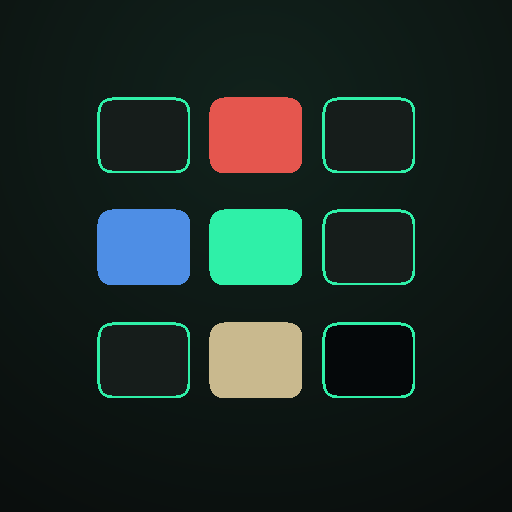
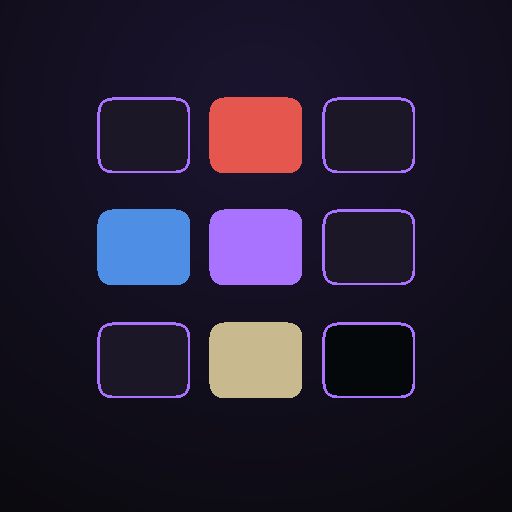
UI Update

diff --git a/css/styles.css b/css/styles.css
@@ -1,22 +1,22 @@
 /* ===========================================================================
    styles.css — minimalist, dark, mobile-first.
-   Palette: near-black bg + vivid mint chrome; Codenames red/blue/tan/assassin.
-   Type: Playfair Display (display), Space Mono (mono UI), Inter (body).
+   Palette: near-black bg + vivid purple chrome; Codenames red/blue/tan/assassin.
+   Type: Chakra Petch (display), Space Mono (mono UI), Inter (body).
    =========================================================================== */
 
 :root {
-  --bg: #0A0E0D;
-  --bg-glow: #11221c;
-  --surface: #121817;
-  --surface-2: #161d1b;
-  --line: #233029;
-  --text: #E7EFEA;
-  --muted: #8aa097;
-  --muted-2: #5f726b;
+  --bg: #0B0A0F;
+  --bg-glow: #1B1430;
+  --surface: #16131C;
+  --surface-2: #1B1726;
+  --line: #2C2740;
+  --text: #ECEAF2;
+  --muted: #9A93AB;
+  --muted-2: #6B6480;
 
-  --mint: #2FF0A8;
-  --mint-dim: #1f3a31;
-  --mint-ink: #04130d;
+  --accent: #A972FF;
+  --accent-dim: #332A52;
+  --accent-ink: #190A30;
 
   --red: #E5564E;
   --blue: #4E8EE5;
@@ -28,7 +28,7 @@
   --tap: 44px;
 
   --mono: 'Space Mono', ui-monospace, 'SFMono-Regular', Menlo, Consolas, monospace;
-  --serif: 'Playfair Display', Georgia, 'Times New Roman', serif;
+  --display: 'Chakra Petch', 'Space Grotesk', system-ui, sans-serif;
   --body: 'Inter', system-ui, -apple-system, 'Segoe UI', Roboto, sans-serif;
 }
 
@@ -73,19 +73,20 @@ body {
   font-size: 0.72rem;
   letter-spacing: 0.18em;
   text-transform: uppercase;
-  color: var(--mint);
+  color: var(--accent);
   margin: 0 0 12px;
 }
 .wordmark {
-  font-family: var(--serif);
-  font-weight: 800;
+  font-family: var(--display);
+  font-weight: 700;
   font-size: clamp(2.6rem, 12vw, 4.4rem);
   line-height: 0.95;
-  letter-spacing: -0.01em;
+  letter-spacing: 0.03em;
+  text-transform: uppercase;
   margin: 0 0 14px;
 }
 .tagline { color: var(--muted); max-width: 30ch; margin: 0 auto 28px; }
-.panel-title { font-family: var(--serif); font-size: 1.8rem; margin: 0 0 18px; }
+.panel-title { font-family: var(--display); font-weight: 600; font-size: 1.8rem; margin: 0 0 18px; }
 
 /* --- buttons ------------------------------------------------------------- */
 .btn {
@@ -102,18 +103,18 @@ body {
   width: 100%;
 }
 .btn:active { transform: translateY(1px); }
-.btn:focus-visible { outline: 2px solid var(--mint); outline-offset: 2px; }
+.btn:focus-visible { outline: 2px solid var(--accent); outline-offset: 2px; }
 .btn:disabled { opacity: 0.4; cursor: not-allowed; }
 
-.btn--primary { background: var(--mint); color: var(--mint-ink); font-weight: 700; }
+.btn--primary { background: var(--accent); color: var(--accent-ink); font-weight: 700; }
 .btn--primary:hover:not(:disabled) { background: #57f5bc; }
 .btn--secondary { background: var(--surface-2); color: var(--text); border-color: var(--line); }
-.btn--ghost { background: transparent; color: var(--mint); border-color: var(--mint-dim); }
-.btn--ghost:hover { border-color: var(--mint); }
+.btn--ghost { background: transparent; color: var(--accent); border-color: var(--accent-dim); }
+.btn--ghost:hover { border-color: var(--accent); }
 .btn--sm { width: auto; min-height: 36px; padding: 7px 14px; font-size: 0.8rem; }
 
 .linkbtn {
-  background: none; border: none; color: var(--mint);
+  background: none; border: none; color: var(--accent);
   font-family: var(--mono); font-size: 0.85rem; cursor: pointer;
   text-decoration: underline; text-underline-offset: 3px;
 }
@@ -140,7 +141,7 @@ body {
   min-height: var(--tap);
 }
 .input::placeholder { color: var(--muted-2); }
-.input:focus { outline: none; border-color: var(--mint); box-shadow: 0 0 0 3px rgba(47,240,168,0.12); }
+.input:focus { outline: none; border-color: var(--accent); box-shadow: 0 0 0 3px rgba(169,114,255,0.12); }
 .input--code {
   font-family: var(--mono); font-size: 1.6rem; letter-spacing: 0.5em;
   text-align: center; text-transform: uppercase; padding-left: 0.5em;
@@ -180,11 +181,11 @@ body {
 .roomcode {
   font-family: var(--mono); font-weight: 700;
   font-size: clamp(2.2rem, 11vw, 3.2rem); letter-spacing: 0.28em;
-  color: var(--mint);
+  color: var(--accent);
   background: none; border: none; padding: 4px 0; cursor: pointer;
   display: block;
 }
-.roomcode:focus-visible { outline: 2px solid var(--mint); outline-offset: 4px; }
+.roomcode:focus-visible { outline: 2px solid var(--accent); outline-offset: 4px; }
 
 .teams { display: grid; grid-template-columns: 1fr 1fr; gap: 12px; margin-bottom: 14px; }
 .teamcol {
@@ -218,13 +219,13 @@ body {
 }
 .roster__item--offline { opacity: 0.55; }
 .roster__status { width: 8px; height: 8px; border-radius: 50%; flex: none; background: var(--muted-2); }
-.roster__status.is-online { background: var(--mint); box-shadow: 0 0 8px rgba(47,240,168,0.6); }
+.roster__status.is-online { background: var(--accent); box-shadow: 0 0 8px rgba(169,114,255,0.6); }
 .roster__status.is-offline { background: var(--neutral); animation: pulse 1.4s ease-in-out infinite; }
 @keyframes pulse { 50% { opacity: 0.3; } }
 .roster__name { font-weight: 500; }
 .roster__role {
   font-family: var(--mono); font-size: 0.6rem; letter-spacing: 0.1em;
-  color: var(--mint); margin-left: auto;
+  color: var(--accent); margin-left: auto;
 }
 .roster__admin { display: flex; gap: 4px; width: 100%; margin-top: 4px; }
 .minibtn {
@@ -233,7 +234,7 @@ body {
   border: 1px solid var(--line); border-radius: 6px;
   padding: 3px 7px; cursor: pointer; min-width: 26px;
 }
-.minibtn:hover { color: var(--mint); border-color: var(--mint-dim); }
+.minibtn:hover { color: var(--accent); border-color: var(--accent-dim); }
 
 /* controls */
 .controls { margin-top: 14px; }
@@ -251,7 +252,7 @@ body {
   cursor: pointer; transition: all .12s;
 }
 .seg__btn:hover { color: var(--text); }
-.seg__btn--on { background: var(--mint); color: var(--mint-ink); border-color: var(--mint); font-weight: 700; }
+.seg__btn--on { background: var(--accent); color: var(--accent-ink); border-color: var(--accent); font-weight: 700; }
 
 /* --- tags / chips -------------------------------------------------------- */
 .tag {
@@ -305,7 +306,7 @@ body {
   font-family: var(--mono); font-size: 1.05rem; letter-spacing: 0.06em;
   color: var(--text); text-transform: uppercase;
 }
-.clue-bar__guesses { font-family: var(--mono); font-size: 0.72rem; color: var(--mint); white-space: nowrap; }
+.clue-bar__guesses { font-family: var(--mono); font-size: 0.72rem; color: var(--accent); white-space: nowrap; }
 
 /* --- the board ----------------------------------------------------------- */
 .board {
@@ -342,9 +343,9 @@ body {
 }
 .card__mark { position: absolute; inset: 0; display: flex; align-items: center; justify-content: center; }
 
-.card--live { cursor: pointer; border-color: var(--mint-dim); }
-.card--live:hover { transform: translateY(-2px); border-color: var(--mint); }
-.card--live:focus-visible { outline: 2px solid var(--mint); outline-offset: 2px; }
+.card--live { cursor: pointer; border-color: var(--accent-dim); }
+.card--live:hover { transform: translateY(-2px); border-color: var(--accent); }
+.card--live:focus-visible { outline: 2px solid var(--accent); outline-offset: 2px; }
 
 /* Spymaster muted key tints (card still hidden) */
 .card--hint-red { border-color: rgba(229,86,78,0.55); color: #f2b4af; background: rgba(229,86,78,0.10); }
@@ -360,7 +361,7 @@ body {
 .card--red { background: var(--red); border-color: var(--red); color: #2a0c0a; }
 .card--blue { background: var(--blue); border-color: var(--blue); color: #071830; }
 .card--neutral { background: var(--neutral); border-color: var(--neutral); color: #3a3220; }
-.card--assassin { background: var(--assassin); border-color: #000; color: #e7efea; }
+.card--assassin { background: var(--assassin); border-color: #000; color: #ECEAF2; }
 .card--revealed .card__word { opacity: 0.96; }
 
 /* Assassin skull (revealed for all; tinted for Spymaster) */
@@ -369,7 +370,7 @@ body {
   font-size: clamp(1.2rem, 6vw, 1.9rem);
   opacity: 0.18;
 }
-.card--assassin.card--assassin-mark .card__mark::before { opacity: 0.5; color: var(--mint); }
+.card--assassin.card--assassin-mark .card__mark::before { opacity: 0.5; color: var(--accent); }
 
 /* --- panels -------------------------------------------------------------- */
 .panel {
@@ -392,10 +393,10 @@ body {
   background: transparent; color: var(--text);
   border: none; border-radius: 8px; cursor: pointer;
 }
-.stepper__btn:hover { background: var(--surface); color: var(--mint); }
+.stepper__btn:hover { background: var(--surface); color: var(--accent); }
 .stepper__val { min-width: 28px; text-align: center; font-family: var(--mono); font-weight: 700; font-size: 1.1rem; }
 .stepper__inf { color: var(--muted); }
-.stepper__inf--on { background: var(--mint); color: var(--mint-ink); }
+.stepper__inf--on { background: var(--accent); color: var(--accent-ink); }
 
 /* --- game over overlay --------------------------------------------------- */
 .overlay {
@@ -409,7 +410,7 @@ body {
   border-radius: var(--radius); padding: 30px 26px; text-align: center;
   max-width: 380px; width: 100%;
 }
-.overlay__title { font-family: var(--serif); font-size: 2.2rem; margin: 6px 0 10px; }
+.overlay__title { font-family: var(--display); font-weight: 700; font-size: 2.2rem; margin: 6px 0 10px; }
 .overlay__sub { color: var(--muted); margin: 0 0 22px; }
 
 /* --- network status banner ---------------------------------------------- */
@@ -422,7 +423,7 @@ body {
   backdrop-filter: blur(4px);
 }
 .netbar__dot { width: 8px; height: 8px; border-radius: 50%; background: currentColor; }
-.netbar--ok { background: rgba(47,240,168,0.12); color: var(--mint); }
+.netbar--ok { background: rgba(169,114,255,0.12); color: var(--accent); }
 .netbar--warn { background: rgba(201,185,142,0.14); color: var(--neutral); }
 .netbar--warn .netbar__dot { animation: pulse 1s ease-in-out infinite; }
 .netbar--bad { background: rgba(229,86,78,0.16); color: var(--red); }
@@ -438,7 +439,7 @@ body {
   transform: translateX(-50%) translateY(12px);
   z-index: 70;
   background: var(--surface); color: var(--text);
-  border: 1px solid var(--mint-dim); border-radius: 999px;
+  border: 1px solid var(--accent-dim); border-radius: 999px;
   padding: 10px 18px; font-size: 0.86rem;
   box-shadow: 0 8px 30px rgba(0,0,0,0.5);
   opacity: 0; transition: opacity .25s ease, transform .25s ease;

diff --git a/index.html b/index.html
@@ -8,15 +8,15 @@
 
   <!-- PWA: relative paths so this works from a GitHub Pages subpath -->
   <link rel="manifest" href="manifest.webmanifest" />
-  <meta name="theme-color" content="#0A0E0D" />
+  <meta name="theme-color" content="#0B0A0F" />
   <link rel="icon" href="icons/icon.svg" type="image/svg+xml" />
   <link rel="apple-touch-icon" href="icons/icon-192.png" />
 
-  <!-- Fonts: Playfair Display (display serif), Space Mono (mono UI), Inter (body).
+  <!-- Fonts: Chakra Petch (display), Space Mono (mono UI), Inter (body).
        Also precached by the service worker so the offline shell renders right. -->
   <link rel="preconnect" href="https://fonts.googleapis.com" />
   <link rel="preconnect" href="https://fonts.gstatic.com" crossorigin />
-  <link href="https://fonts.googleapis.com/css2?family=Inter:wght@400;500;600&family=Playfair+Display:ital,wght@0,600;0,800;1,600&family=Space+Mono:wght@400;700&display=swap" rel="stylesheet" />
+  <link href="https://fonts.googleapis.com/css2?family=Chakra+Petch:wght@400;500;600;700&family=Inter:wght@400;500;600&family=Space+Mono:wght@400;700&display=swap" rel="stylesheet" />
 
   <link rel="stylesheet" href="css/styles.css" />
 </head>

diff --git a/sw.js b/sw.js
@@ -11,7 +11,7 @@
 // each WebRTC handshake. After that, gameplay traffic is direct P2P on the LAN.
 // ===========================================================================
 
-const CACHE = 'codenames-v1';
+const CACHE = 'codenames-v3';
 
 // Local app shell (relative to this worker's location).
 const SHELL = [
@@ -35,7 +35,7 @@ const SHELL = [
 // Cross-origin assets we also want cached (best-effort; never block install).
 const EXTERNAL = [
   'https://unpkg.com/peerjs@1.5.4/dist/peerjs.min.js',
-  'https://fonts.googleapis.com/css2?family=Inter:wght@400;500;600&family=Playfair+Display:ital,wght@0,600;0,800;1,600&family=Space+Mono:wght@400;700&display=swap',
+  'https://fonts.googleapis.com/css2?family=Chakra+Petch:wght@400;500;600;700&family=Inter:wght@400;500;600&family=Space+Mono:wght@400;700&display=swap',
 ];
 
 const CACHEABLE_HOSTS = new Set([
